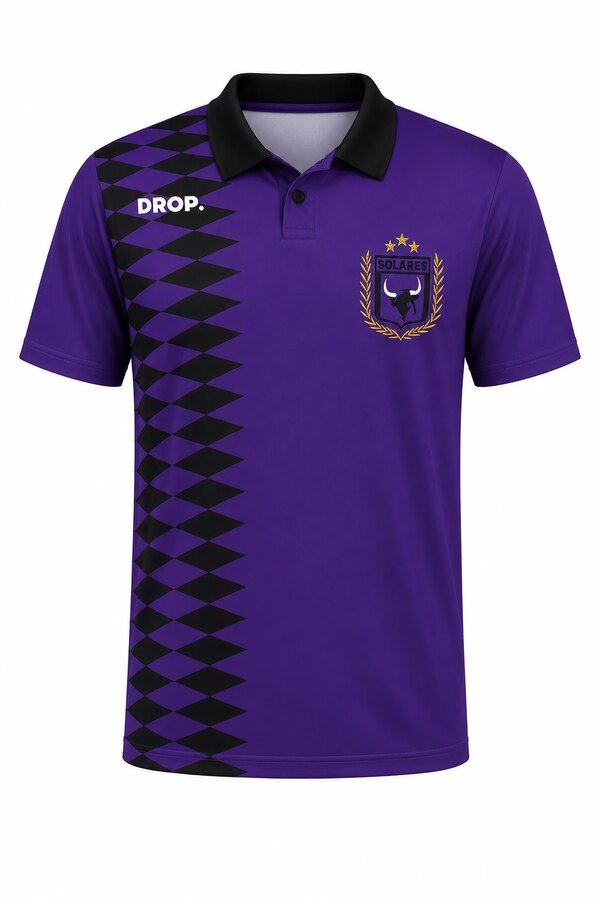
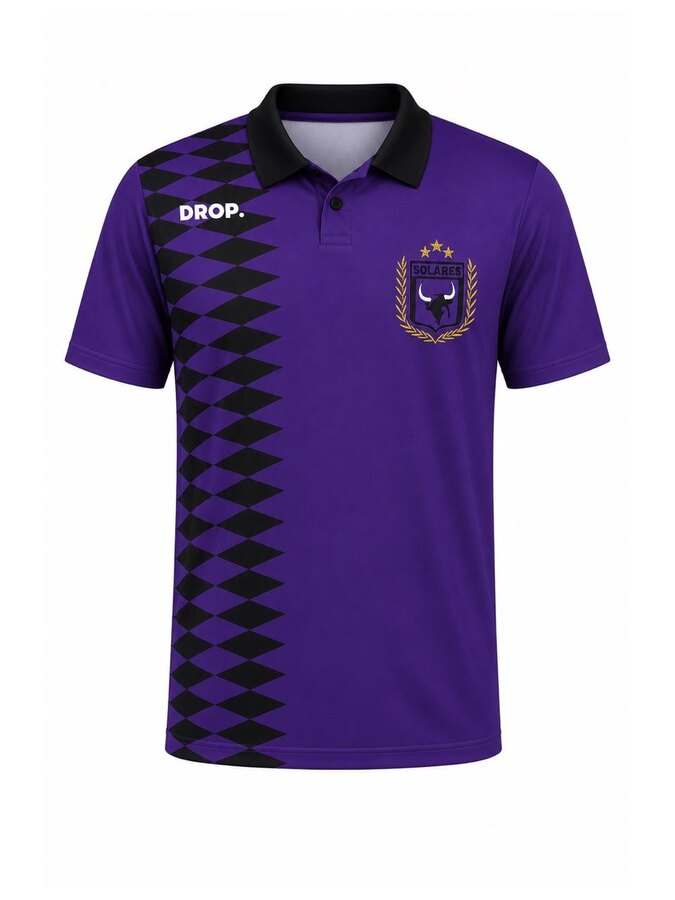
feat(kits): incorporate resized kit-0 and kit-6 to a uniform ratio

Changed region(s): [[0.03, 0.0622, 0.99, 0.8711]]

diff --git a/src/data/kits.ts b/src/data/kits.ts
@@ -28,8 +28,8 @@ export const kits: readonly Kit[] = [
     image: {
       src: kit0Jpg,
       webp: kit0Webp,
-      width: 900,
-      height: 675,
+      width: 675,
+      height: 900,
       alt: 'Camiseta blanca sin mangas con la letra S en verde y amarillo de Solares.',
     },
   },
@@ -94,7 +94,7 @@ export const kits: readonly Kit[] = [
     image: {
       src: kit6Jpg,
       webp: kit6Webp,
-      width: 600,
+      width: 675,
       height: 900,
       alt: 'Chomba violeta con rombos negros y el escudo de Solares.',
     },
